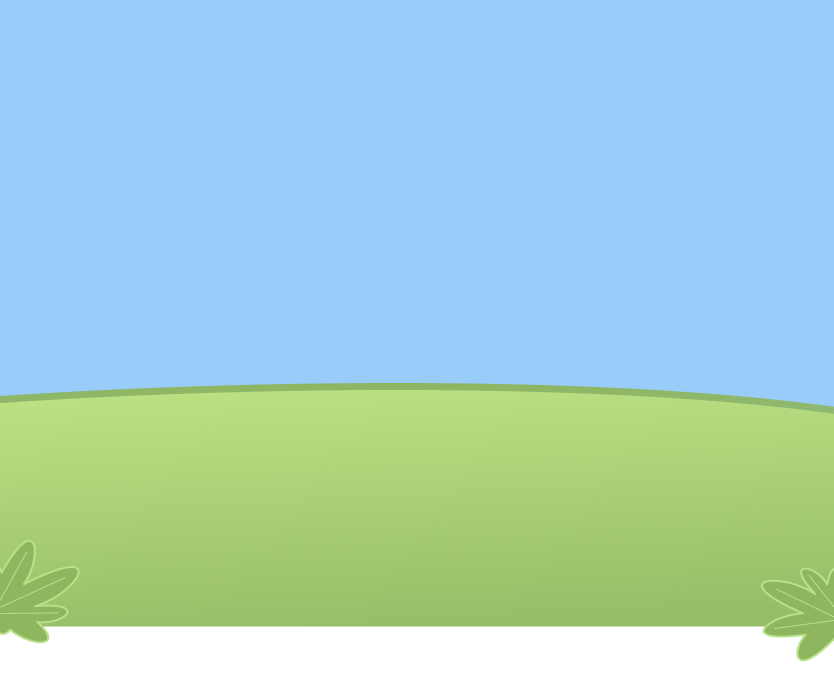
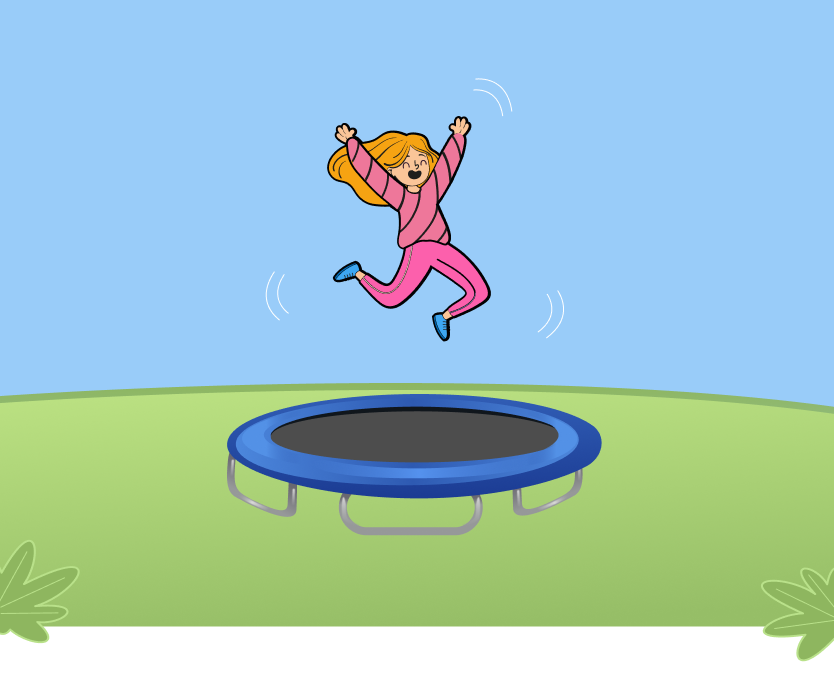
0.2

diff --git a/styles.css b/styles.css
@@ -21,7 +21,7 @@
 
 .page {
   max-width: 1440px;
-
+  min-width: 834px;
   margin: 0 auto;
   font-family: Arial, Helvetica, sans-serif;
   -moz-osx-font-smoothing: grayscale;
@@ -58,7 +58,6 @@
   .header {
     display: flex;
     padding: 40px 30px 40px;
-    
   }
 }
 
@@ -139,7 +138,6 @@
 
 .header__burger {
   display: none;
-
 }
 
 @media (max-width: 1000px) {
@@ -229,11 +227,7 @@
   z-index: 0;
 }
 
-@media (max-width: 500px) {
-  .promo {
-    height: 572px;
-  }
-}
+
 
 .promo__picture {
   position: absolute;
@@ -243,6 +237,29 @@
   height: auto;
   background: #a7d0f6;
   z-index: 1;
+}
+
+@media (max-width: 1000px) {
+  .promo__picture {
+    display: none;
+  }
+}
+
+.promo__picture-lowres {
+  display: none;
+}
+
+@media (max-width: 1000px) {
+  .promo__picture-lowres {
+    display: flex;
+    position: absolute;
+    left: 0;
+    top: -135px;
+    width: 100%;
+    height: auto;
+    background: #a7d0f6;
+    z-index: 1;
+  }
 }
 
 .promo__title {
@@ -260,6 +277,14 @@
   margin: 0;
 }
 
+@media (max-width: 1000px) {
+  .promo__title {
+    font-size: 40px;
+    max-width: 770px;
+    padding: 40px 0 40px;
+  }
+}
+
 .promo__place {
   color: #00327d;
   text-align: center;
@@ -270,6 +295,18 @@
   line-height: normal;
   z-index: 1;
   margin: 0 0 40px;
+}
+
+@media (max-width: 1000px) {
+  .promo__place {
+    color: #fff;
+
+    font-size: 19px;
+
+    font-weight: 800;
+
+    margin-bottom: 70px;
+  }
 }
 
 .promo__button {
@@ -294,13 +331,78 @@
   transform: scale(1.1);
 }
 
+@media (max-width: 1000px) {
+  .promo__button {
+    display: none;
+  }
+}
+
+.promo__contacts {
+  display: flex;
+  gap: 20px;
+  list-style-type: none;
+  padding: 0;
+  margin: 0;
+  z-index: 1;
+}
+
+@media (min-width: 1001px) {
+  .promo__contacts {
+    display: none;
+  }
+}
+
+.promo__contacts-item {
+  border-radius: 20px;
+  width: 328px;
+  height: 50px;
+  display: flex;
+  justify-content: center;
+  align-items: center;
+}
+
+.promo__contacts-item:first-child {
+  background-color: #f7a81a;
+}
+
+.promo__contacts-item:last-child {
+  background-color: none;
+  border: 2px solid #FFF;
+}
+
+
+
+.promo__contacts-link {
+  color: #fff;
+  text-align: center;
+  font-family: "Avenir";
+  font-size: 16px;
+  font-style: normal;
+  font-weight: 800;
+  line-height: normal;
+  text-decoration: none;
+}
+
+
+.promo__contacts-link:hover {
+  text-decoration: underline;
+}
+
 .parts {
+  position: relative;
   margin: 350px 121px 120px;
+  z-index: 5;
+}
+
+@media (max-width: 1200px) {
+  .parts {
+    margin: 180px 80px;
+  }
 }
 
 @media (max-width: 1000px) {
   .parts {
-    margin: 80px 0;
+    margin: 280px 50px;
   }
 }
 
@@ -388,8 +490,6 @@
   gap: 15px;
   justify-content: center;
 }
-
-
 
 .parts__subtitle-lowres {
   color: #00327d;

diff --git a/index.html b/index.html
@@ -113,9 +113,27 @@
             alt="фон прыжки на батуте"
             class="promo__picture"
           />
+          <img
+            src="./images/background-lowres.png"
+            alt="фон прыжки на батуте"
+            class="promo__picture-lowres"
+          />
           <h1 class="promo__title">детские тренировки на батутах x-kids</h1>
           <p class="promo__place">в Санкт-Петербурге</p>
           <button class="promo__button link">Записаться</button>
+
+
+          <ul class="promo__contacts">
+            <li class="promo__contacts-item link">
+              <a class="promo__contacts-link" href="#">Оставить заявку</a>
+            </li>
+            <li class="promo__contacts-item link">
+              <a class="promo__contacts-link" href="#"
+                >+7&nbsp;(987)&nbsp;654-32-10</a
+              >
+            </li>
+          </ul>
+
         </section>
 
         <section class="parts">
